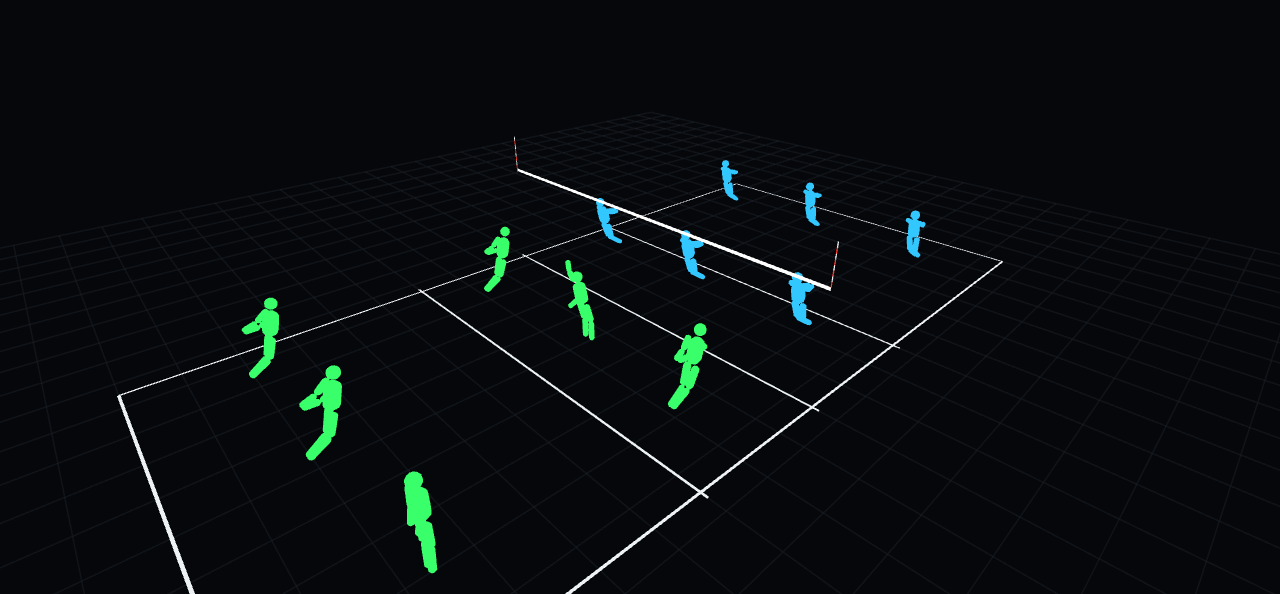
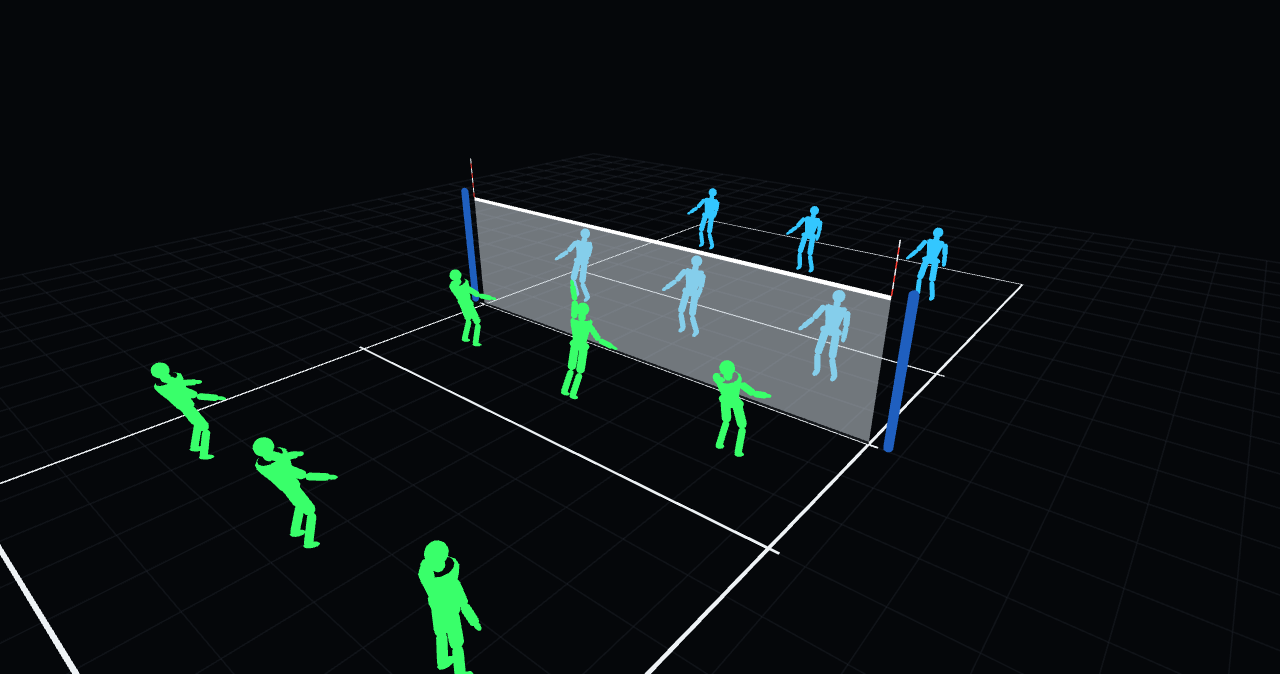
Update README and add a handoff doc for a fresh session
- Refreshed the screenshot and social preview: they still showed the
  old capsule-stick-figure bodies and the old broken (invisible)
  net; now show the current tapered-body silhouettes and the real
  net (posts, banding).
- Updated README status/roadmap to reflect Phase 1 being fully done
  (net + pose fixes included), and pointed at HANDOFF.md.
- Added HANDOFF.md: where the project lives, what's done, and the
  non-obvious things worked through this session that a fresh
  session (or contributor) would otherwise have to re-discover - the
  pose rotation sign convention and why it's applied where it is,
  the shoulder/spine compounding rule for authoring new poses, why
  preserveDrawingBuffer is on, the dev-only debug hooks, and the
  render-loop-stalls-when-backgrounded gotcha for anyone testing
  through an automated browser. Points at Phase 2 as the next step.

diff --git a/HANDOFF.md b/HANDOFF.md
@@ -1,0 +1,50 @@
+# Handoff
+
+Context for picking this project back up in a fresh session: what's done, why it's built the way it is, and the non-obvious things already worked through so they don't get re-discovered the hard way.
+
+## Where everything lives
+
+- **Repo:** https://github.com/aryanyaksh-art/volleyball-simulator
+- **Local checkout:** `C:\dev\volleyball-simulator`, deliberately not under `OneDrive`. OneDrive tries to sync `node_modules` (tens of thousands of files) and its file-locking breaks Vite's watcher. Don't move it back.
+- **Original plan doc:** `C:\Users\aryan\.claude\plans\i-have-this-random-bright-knuth.md` on this machine has the full original architecture plan (data model, rotation math, overlap-validation spec, ball flight math, the four feature areas). It's still accurate for Phase 2 onward. Read it before designing Phase 2 from scratch.
+- Everything below is already committed and pushed. Nothing about this project's state depends on any chat's memory.
+
+## What's actually done (Phase 0 + Phase 1)
+
+- Vite + React 19 + TypeScript strict scaffold, Vitest for the domain layer, ESLint with a hard boundary rule: `src/core` cannot import `three`, `react`, or anything from `src/render`/`src/ui`. That's what keeps the volleyball rules unit-testable headless and the visual style swappable.
+- Court geometry, team-local to world coordinate transform (`core/court/coordinates.ts`, the one abstraction that keeps rotation/overlap logic symmetric for both sides; get familiar with it before touching Phase 2 rotation code).
+- Free-orbit camera (drag/zoom) plus 5 tweened presets.
+- A real-looking net: translucent panel running floor-to-band (not just a strip near the top), padded support posts, banded top and bottom edges, dashed antenna.
+- Humanoid silhouettes: tapered torso (via `THREE.LatheGeometry`), hip girdle, neck, hands, feet, not a stick of uniform capsules. Flat `MeshBasicMaterial`, no scene lighting needed.
+- All 16 poses (`idle`, `ready`, `passLow`, `passHigh`, `set`, `jumpSet`, `approach`, `load`, `attack`, `followThrough`, `block`, `dig`, `sprawl`, `serveToss`, `serveContact`, `transition`) authored and verified against real technique.
+- 3 theme presets (`blueprint`, `court`, `whiteboard`). The user picks/tunes the real one later; every renderer module reads from `Theme`, no color literal lives outside it.
+
+## Things that will bite you if you don't know them
+
+### The pose rotation sign convention (already fixed, don't re-break it)
+
+`poseRig.ts` is authored so a positive `x` means "swing forward, toward the net" and a positive `z` means "swing outward, away from the midline," the intuitive way to read a pose table. Three.js's actual rotation math does the opposite for both axes on a hanging limb. This was empirically verified, not derived on paper (paper derivation got the sign wrong twice before empirical testing settled it), by directly reading a joint's world-space direction via its `matrixWorld` and checking it against the net/midline.
+
+The fix lives in `CapsuleHumanoid.setPose()`: it negates `x` and `z` for `spine`, `shoulderL/R`, and `hipL/R` before calling `rotation.set(...)`. The knees are the one joint that needed no correction: their natural "shin swings behind the thigh" bend already matched Three.js's math with a positive angle unchanged. If you add new poses or new joints, verify the direction empirically (set a single joint, read `matrixWorld`, check world position against something you know) before trusting a hand-derived sign.
+
+### Shoulder rotation compounds with spine lean
+
+`shoulderL/R` are children of `spine` in the hierarchy, so a spine forward lean adds to the shoulder's own forward swing, correctly, exactly like a real shoulder moving with a leaning torso. Each pose's authored shoulder angle is (desired total forward reach) minus (that pose's spine.x). If you tune a pose's spine lean, the shoulder angle needs to move with it or the arm will reach further (or less far) than intended. Hip angles do not need this treatment: the hip is a child of the pelvis, which never rotates.
+
+### `preserveDrawingBuffer: true` is intentional
+
+`SceneRenderer.ts` sets this on the WebGL context so `canvas.toDataURL()` works (used this session to capture reference screenshots) and so the Phase 7 PNG rotation-sheet export will work. Cheap for this scene's complexity. Don't remove it as a "perf cleanup."
+
+### Dev-only debug hooks exist
+
+`SceneCanvas.tsx` attaches `window.__appStore`, `window.__sceneBridge`, and `window.__sceneRenderer` to the page, gated behind `import.meta.env.DEV` (never ships in a prod build). These made it possible to drive poses/camera/theme and read back exact joint rotations from outside React, which is how the sign-convention bug above actually got found and fixed instead of just eyeballed. Keep using them for anything that needs precise verification rather than guessing from a screenshot.
+
+### Testing in an automated browser: render-loop stalls
+
+If you're driving the dev server through a headless/automated browser tool (as this session did), be aware: when the browser pane isn't the foreground/visible surface, `requestAnimationFrame` can stall, so the Three.js render loop stops advancing even though application state (Zustand store, Three.js object rotations) updates correctly and instantly. Symptom: you change a pose, take a screenshot, and it's pixel-identical to the previous one. The scene graph is right, the canvas just never repainted. Two things that reliably force a repaint: taking a `computer` screenshot action (not a JS-only call), and doing it inside the same batched call as the state change rather than as a separate subsequent tool call. Manually setting `camera.position` / calling `controls.update()` directly (bypassing the store's `goToCameraPreset`) seemed to make the stalling worse. Prefer driving the camera through the store when you need a reliable re-render during testing.
+
+## What's next: Phase 2, the rotation engine
+
+Per the original plan: roster (`core/roster/types.ts`), lineups and the 5-1/6-2/4-2 systems (`core/lineup/`), the overlap/alignment validator (`core/rules/overlap.ts`, checked only at serve contact, 7 adjacent-pair comparisons, server exempt), and the UI surface (`RosterPanel`, `LineupPanel`, `RotationWheel`, `ValidationPanel`, `ViolationOverlay`). The `ZONE_BASE` anchors already in `core/court/anchors.ts` are overlap-legal by construction; the validator should confirm that as its first test case.
+
+Ship target: build a real 5-1 roster, click through all 6 rotations, see live overlap legality with the illegal pair highlighted and the camera focusing on it.

diff --git a/README.md b/README.md
@@ -11,11 +11,11 @@ A 3D volleyball strategy tool for coaches, not a game. Build a lineup, step thro
 - **Serve-receive planning.** Passer responsibility zones, seam coverage, and warnings when an area is left open against a given serve.
 - **Attack/defense matchups.** Approach lanes, block setup, diggers behind the block, and tip coverage.
 
-Players render as flat, orbit-camera-friendly humanoid silhouettes holding real volleyball stances (dig, block, attack, set, and more), on a court you can freely rotate, pan, and zoom, plus five one-click camera presets (top-down, sideline, behind the endline, and two angled views).
+Players render as flat, orbit-camera-friendly humanoid silhouettes holding real volleyball stances (dig, block, attack, set, and more) on a real net (padded posts, banded top and bottom edges) and court you can freely rotate, pan, and zoom, plus five one-click camera presets (top-down, sideline, behind the endline, and two angled views).
 
 ## Status
 
-Early build. Phase 1 (court, camera, silhouettes) is done. The rotation engine, play authoring, serve-receive planning, and attack/defense matchups are in progress; see [Roadmap](#roadmap).
+Phase 1 is done: court, net, free-orbit camera, and pose-able silhouettes, all reading from a swappable theme. The rotation engine (Phase 2) is next. See [Roadmap](#roadmap) below, and [HANDOFF.md](HANDOFF.md) for a working session's worth of context on where things stand, decisions made, and pitfalls already worked through.
 
 ## Tech stack
 
@@ -44,9 +44,9 @@ npm run build # production build
 ## Roadmap
 
 - [x] **Phase 0.** Project scaffold.
-- [x] **Phase 1.** Court, orbit camera, pose-able silhouettes, theme system.
+- [x] **Phase 1.** Court, net, orbit camera, pose-able silhouettes, theme system.
 - [ ] **Phase 2.** Rotation engine (roster, lineups, 5-1/6-2/4-2 systems, overlap validation).
-- [ ] **Phase 3.** Play model and deterministic playback.
+- [ ] **Phase 3.** Play model and deterministic playback (this is where jump/serve/approach sequences actually animate, smoothly, between poses).
 - [ ] **Phase 4.** Play authoring UI (timeline editor, direct 3D manipulation, play library).
 - [ ] **Phase 5.** Serve-receive planner (responsibility zones, seam coverage, uncovered-area warnings).
 - [ ] **Phase 6.** Attack/defense matchups (approach lanes, block feasibility, block shadow, tip coverage).
